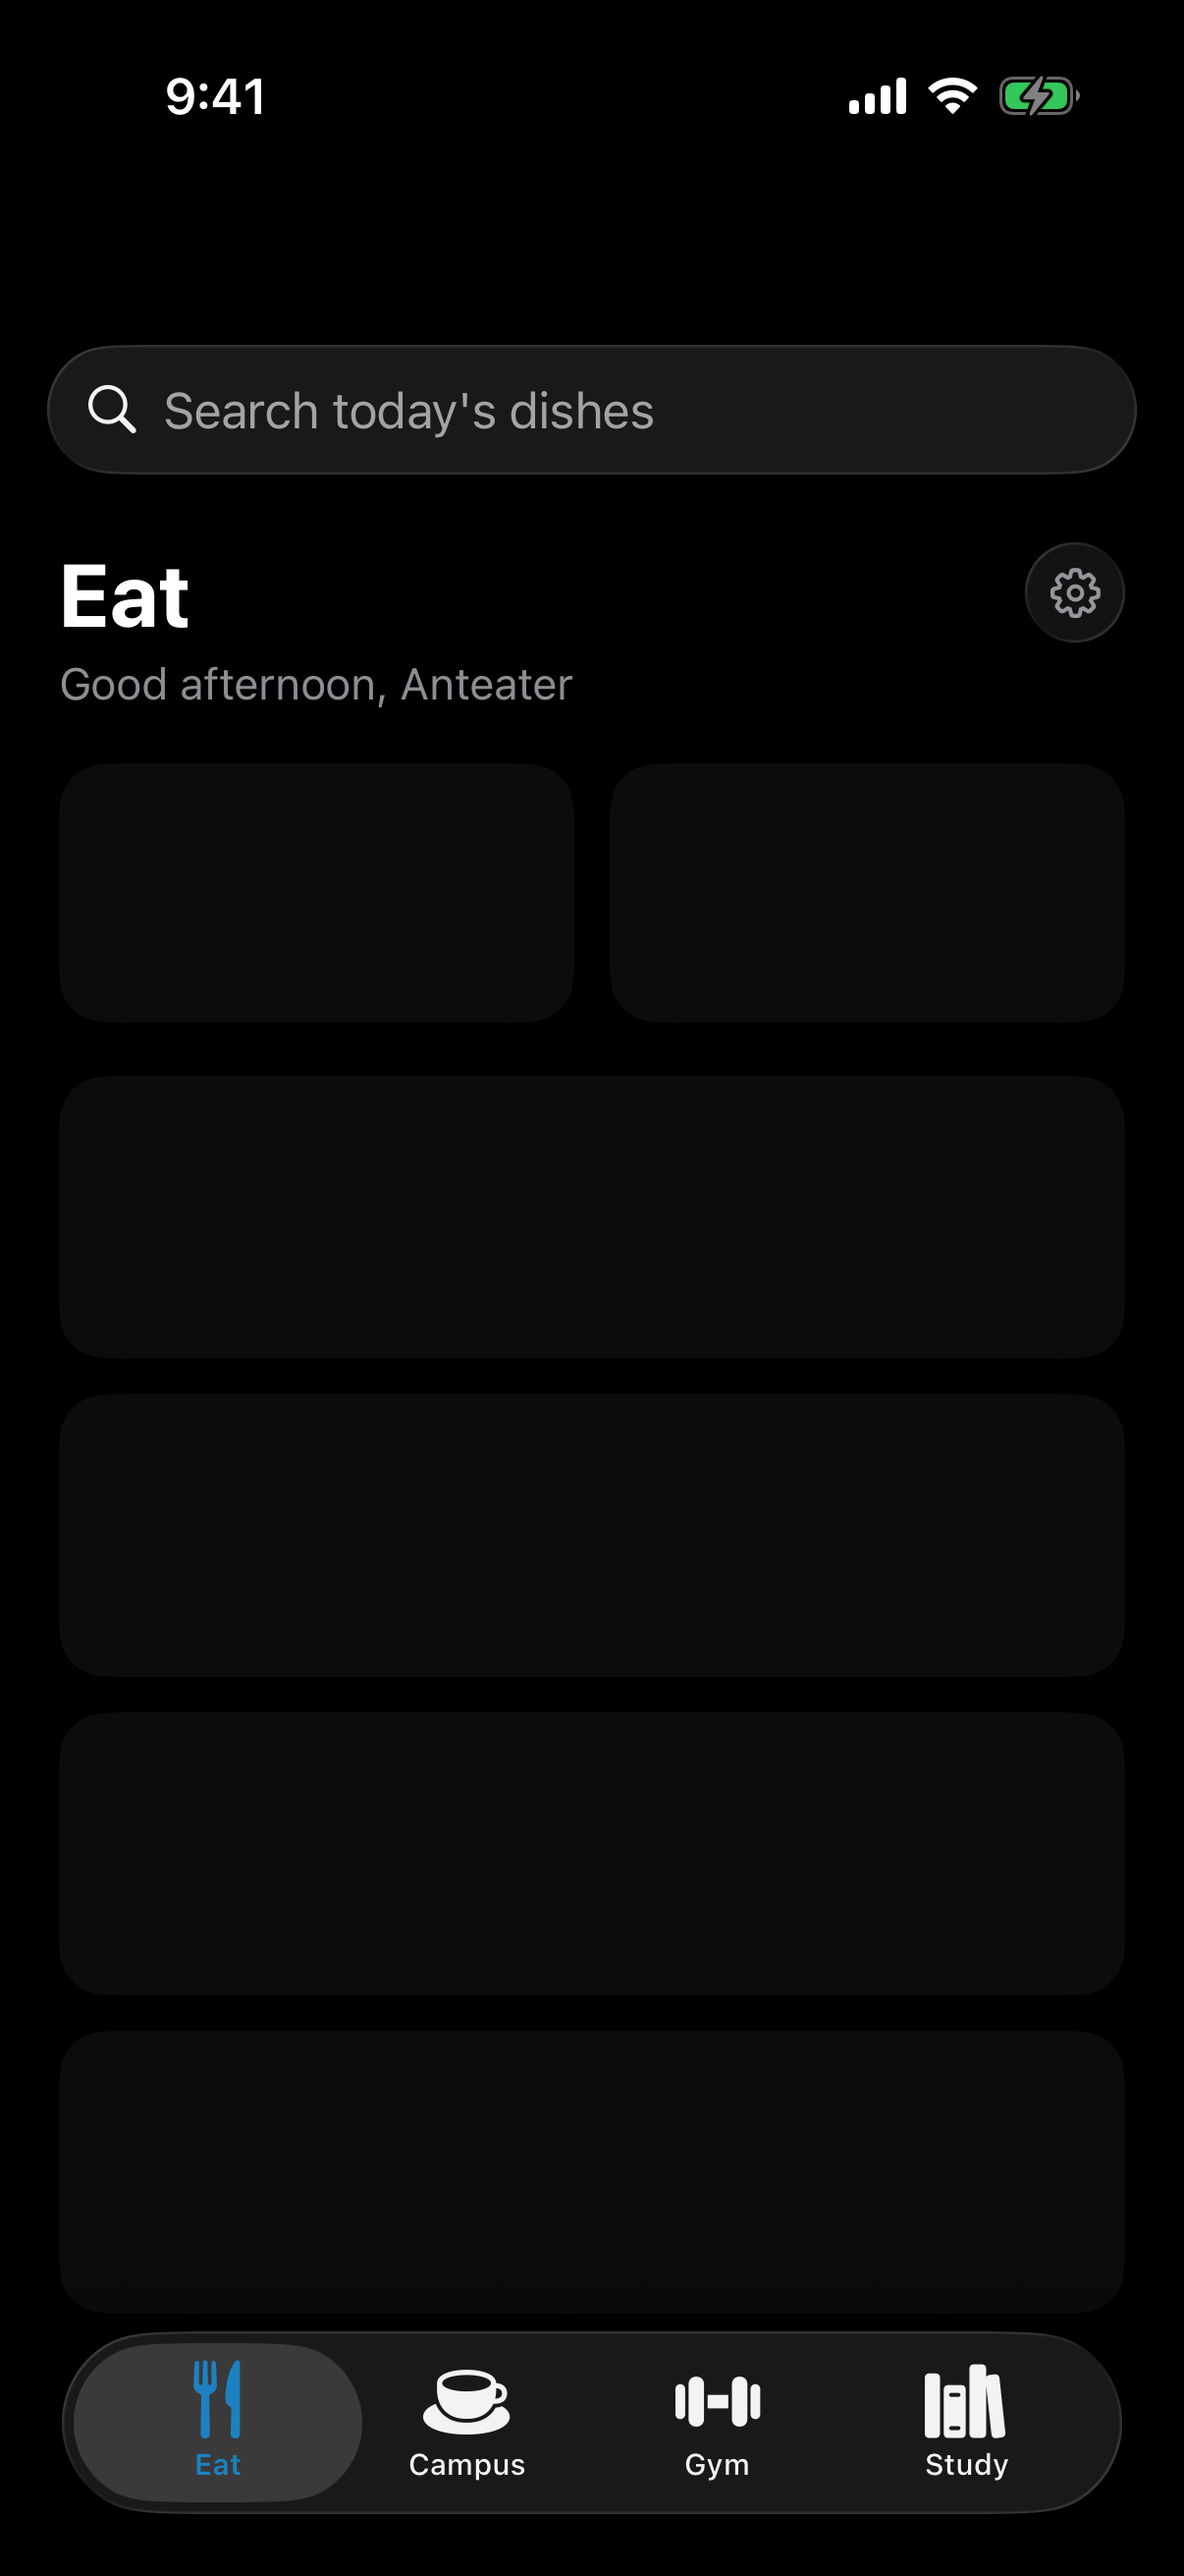
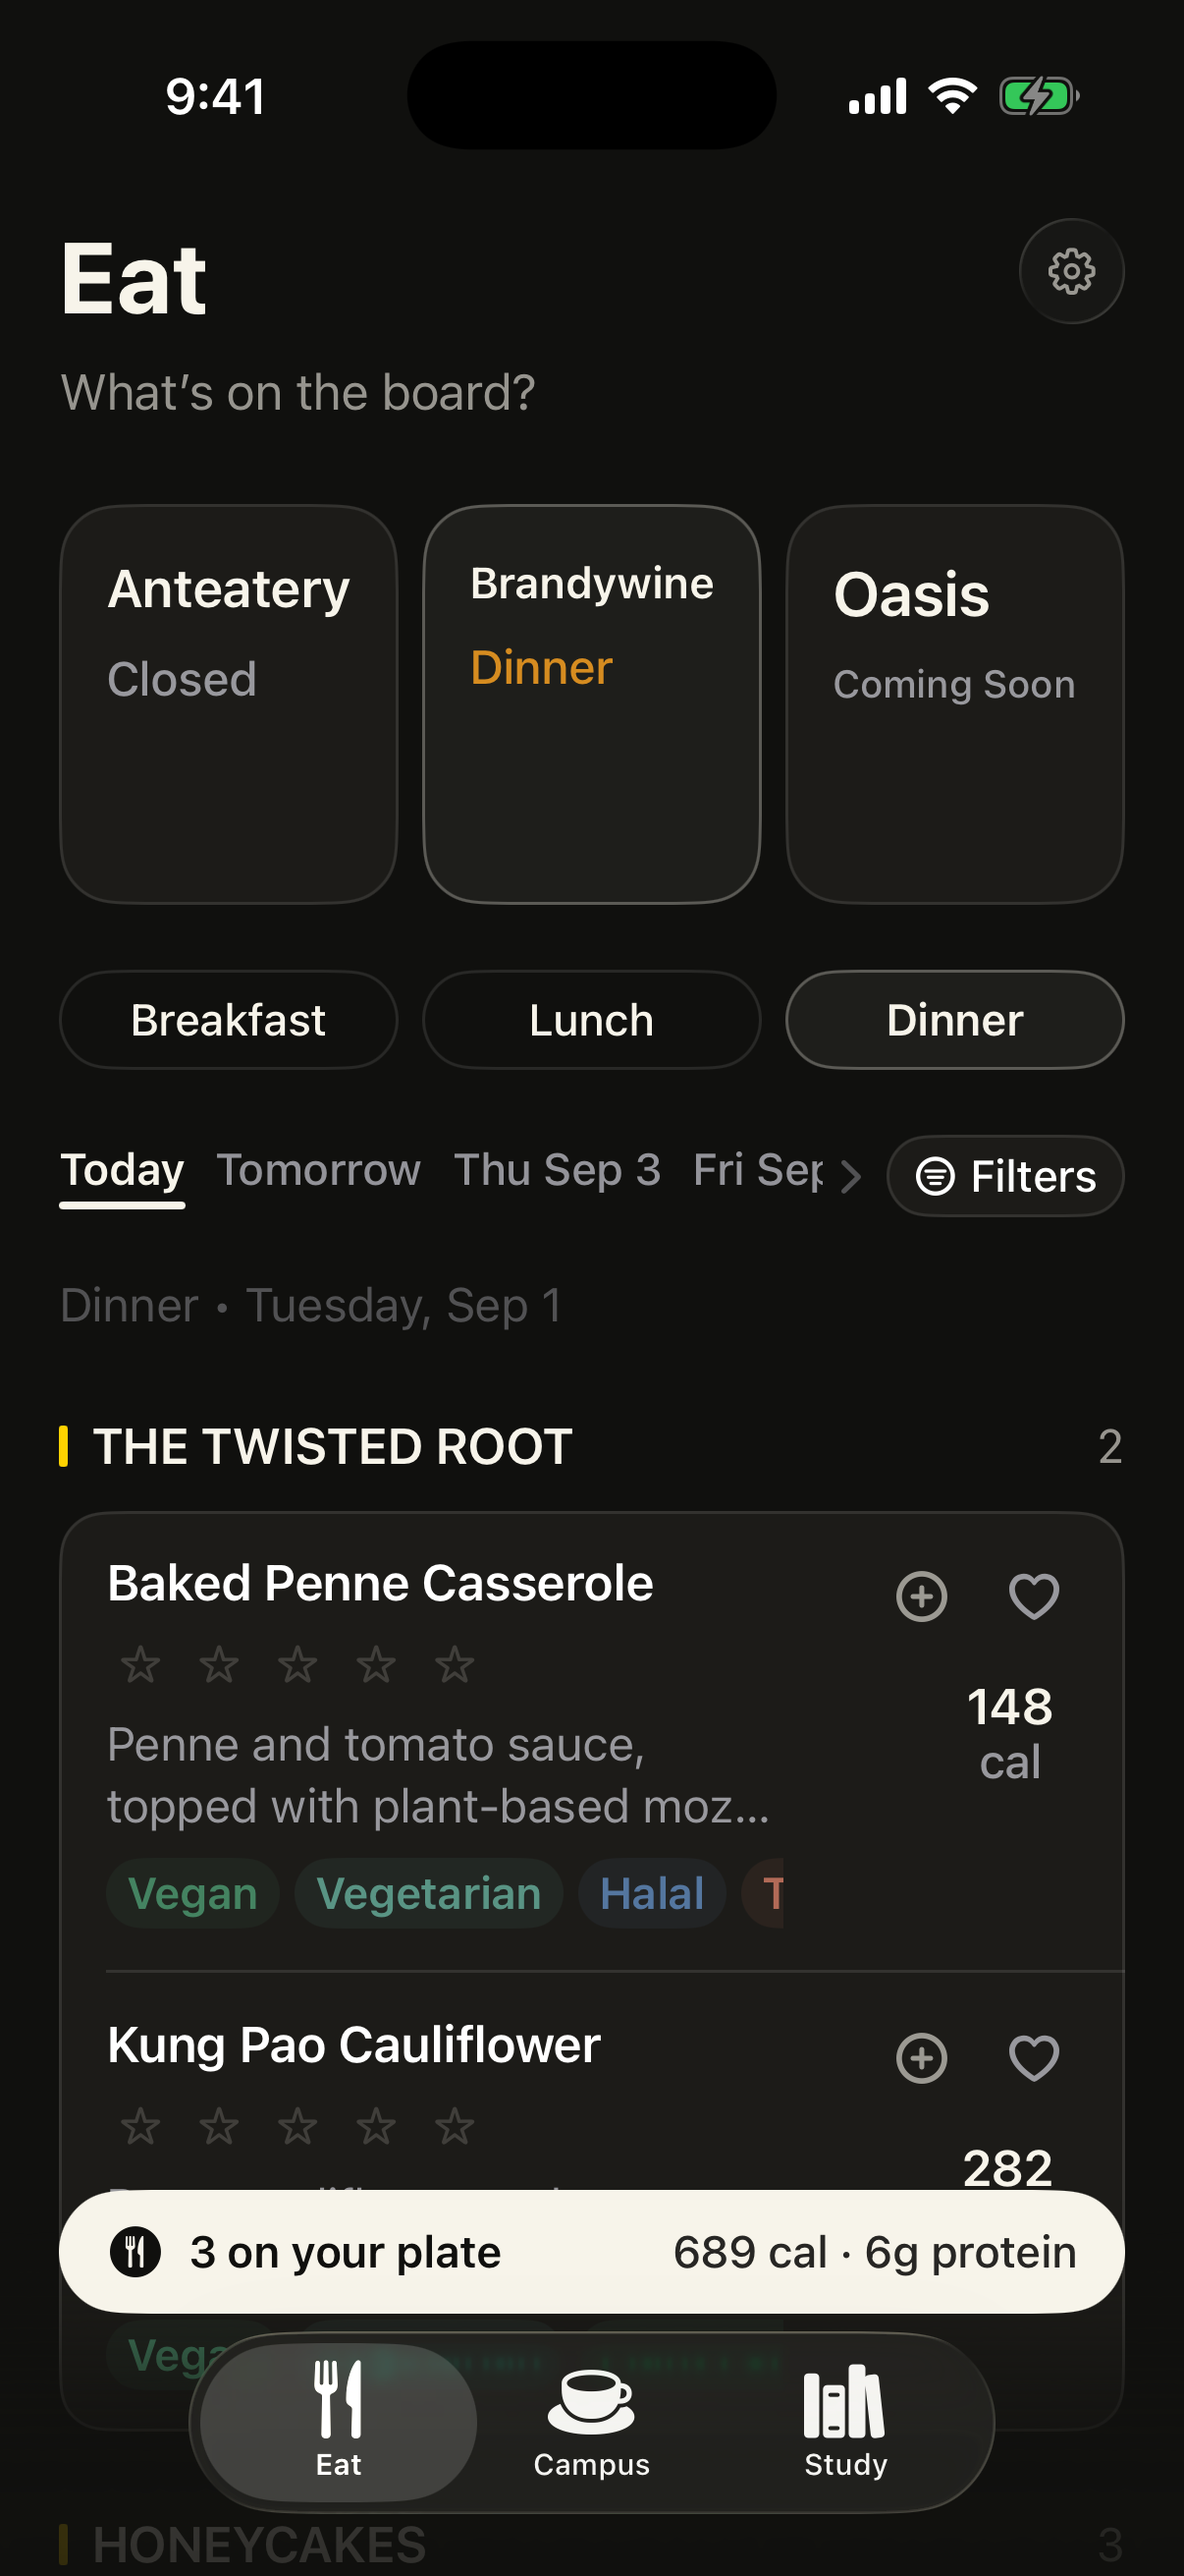
docs: refresh public README for Anteats as it ships today
Rewrite the GitHub README as a product page: Anteats (not ZotEats), Eat / Campus / Study only, current widgets and alerts, and gym-free screenshots. Drop Gym, Track Meal, beta/one-behind store language, and the stale demo gif.

diff --git a/README.md b/README.md
@@ -1,102 +1,78 @@
 <div align="center">
 
-# ZotEats 🐜
+# Anteats
 
-**UCI dining, campus food, gym, and study spots — in one native iOS app.**
+**UCI dining, campus food, and a quiet place to study — in one native iOS app.**
 
-*Menus with nutrition and dietary filters · live library busyness · rush-hour intelligence · built by an Anteater, for Anteaters.*
+On the App Store (~1.0.298). Built by [Atharv Gupta](https://github.com/atharvgups). Unofficial — not affiliated with UC Irvine.
 
 [![iOS CI](https://github.com/atharvgups/zoteats/actions/workflows/ios.yml/badge.svg)](https://github.com/atharvgups/zoteats/actions/workflows/ios.yml)
 ![Swift 6](https://img.shields.io/badge/Swift-6-F05138?logo=swift&logoColor=white)
-![iOS 17+](https://img.shields.io/badge/iOS-17%2B-000000?logo=apple&logoColor=white)
-![Status](https://img.shields.io/badge/status-beta-blue)
+![iOS 18+](https://img.shields.io/badge/iOS-18%2B-000000?logo=apple&logoColor=white)
 
-<img src="docs/screenshots/demo.gif" alt="ZotEats demo" width="300" />
+Search **Anteats** on the App Store. The GitHub repo is `zoteats`.
 
 </div>
 
----
-
-## What it does
-
 <p align="center">
-  <img src="docs/screenshots/eat_light.png" width="24%" alt="Eat tab" />
-  <img src="docs/screenshots/campus.png" width="24%" alt="Campus tab" />
-  <img src="docs/screenshots/gym.png" width="24%" alt="Gym tab" />
-  <img src="docs/screenshots/study.png" width="24%" alt="Study tab" />
-</p>
-
-- **Eat** — live menus for The Anteatery & Brandywine with calories, allergens, and Vegan / Vegetarian / Halal / Kosher / Gluten-Free filtering. Countdowns like "Dinner starts in 16m", browse tomorrow's menu, and the app opens on whichever meal is happening right now.
-- **Campus** — every campus food spot (Starbucks, Panda Express, Subway, Zot N Go, the food courts) with real hours and open/closed. Filter by category or "open now"; chains collapse into one expandable row; menus where venues publish them.
-- **Gym** — busyness-first ARC view: how packed it is now, today's rush curve, and when it's usually quietest. Hours tucked away where they belong.
-- **Study** — live library occupancy from UCI's Occuspace sensors, floor by floor, with a "quietest right now" pick.
-
-**Plus:** full dark mode (follow the system or force it), a home-screen widget, favorites that surface when your dish is being served, dish detail sheets with nutrition, and a few hidden Zots for the curious. 🐜🐜🐜
-
-<p align="center">
-  <img src="docs/screenshots/campus_menu.png" width="24%" alt="Menu sheet" />
-  <img src="docs/screenshots/eat_dark.png" width="24%" alt="Dark mode" />
+  <img src="docs/screenshots/eat_light.png" width="24%" alt="Eat" />
+  <img src="docs/screenshots/campus.png" width="24%" alt="Campus" />
+  <img src="docs/screenshots/study.png" width="24%" alt="Study" />
   <img src="docs/screenshots/settings.png" width="24%" alt="Settings" />
 </p>
 
-## Data sources
+## What it does
 
-All data is live from public, community-maintained UCI sources. No accounts, no ads, no tracking — preferences never leave your device.
+**Eat** — Anteatery, Brandywine, and Oasis (coming soon until menus go live). Three text-first hall tiles, larger Breakfast / Lunch / Dinner pills, and a subtitle that follows the meal you picked — on-device Apple Intelligence when the phone can do it, a static line when it can’t. My Plate, dietary filters, a card per station, favorites. Twisted Root sits first when you want the vegan option.
 
-| What | Source |
-|---|---|
-| Dining hall menus, hours, nutrition | [Anteater API](https://anteaterapi.com) (`/v2/rest/dining`) — the maintained UCI data API |
-| Campus restaurant hours & menus | UCI Dining hub (`uci.mydininghub.com`) public backend |
-| Library busyness | UCI's [Occuspace pilot](https://www.lib.uci.edu/library-space-usage-pilot) via the public Waitz feed |
-| ARC hours | Maintained schedule, verified against [campusrec.uci.edu](https://www.campusrec.uci.edu/arc/hours.html) |
+**Study** — Langson and Gateway, with today’s hours. Libraries start collapsed; open a card to see floor-level busyness. Chevrons point right when a section is closed and down when it’s open.
 
-Where no sensors exist (dining halls, the ARC), busyness shows **typical patterns** — clearly tagged `TYPICAL` — derived from real meal windows and known rush patterns. Live sensor data automatically takes over anywhere coverage appears.
+**Campus** — On-campus places as their own cards. Starbucks, Panda, Subway, and similar spots show a standard menu when we have one; everyone else links to the official online menu when a live scrape isn’t reliable.
 
-## Architecture
+**Widgets** — A handful of WidgetKit glances (about five or six): dining halls, today’s menu, favorites on the board, campus open now, quietest library. Enough to check without opening the app — not a gallery.
 
-```
-apple/
-├── ZotEatsKit/     Swift package: models, API services, caching,
-│                   typical-busyness engine — 46 tests, runs on Linux + macOS
-├── App/            SwiftUI app (iOS 17+): Eat / Campus / Gym / Study
-│                   + a Notion-inspired design system
-├── UITests/        Scripted demo tour, recorded on video by CI
-└── project.yml     XcodeGen spec (the Xcode project is generated, not committed)
-```
+**Notifications** — Dining and campus alerts that stay useful: a favorite on today’s board, a hall about to open or close, a library getting busy. No spam.
 
-- **Swift 6** with strict concurrency, `@Observable` stores, no external dependencies.
-- **CI** builds the app on macOS runners, captures light + dark screenshots of every screen, and records a full demo video on `[demo]` commits. Package tests run on every push.
-- **TestFlight** releases ship by pushing a `testflight-x.y.z` tag.
-- The repo root also contains the original [Glaze](https://glazeapp.com) desktop prototype this project grew out of.
+**Settings** — Standard iOS switches. System type (SF Pro). Light is plain white; dark is plain black.
 
-## Development
+<p align="center">
+  <img src="docs/screenshots/eat_dark.png" width="24%" alt="Eat in dark mode" />
+  <img src="docs/screenshots/plate_light.png" width="24%" alt="My Plate" />
+  <img src="docs/screenshots/campus_menu.png" width="24%" alt="Campus menu" />
+  <img src="docs/screenshots/dish_nutrition_light.png" width="24%" alt="Dish nutrition" />
+</p>
+
+No accounts. No ads. No tracking. Preferences and My Plate stay on this iPhone.
+
+## Stack
+
+- **SwiftUI** app (iOS 18+), display name Anteats, bundle id `com.atharvgupta.zoteats`
+- **Swift 6**, WidgetKit, App Groups so the app and widgets share an on-device cache
+- **`ZotEatsKit`** — shared Swift package for models, dining / campus / library services, and tests
+- **XcodeGen** — the Xcode project is generated, not committed
+- **TestFlight** for internal dogfood (ahead of the store, ~1.0.308)
+
+Live data comes from public campus feeds: [Anteater API](https://anteaterapi.com) for dining-hall menus, UCI Dining Hub for campus retail, [Waitz](https://waitz.io/irvine) for library busyness, and UCI LibCal for library hours.
+
+## Build & run
+
+**Requirements:** macOS, Xcode (iOS 18 SDK), [XcodeGen](https://github.com/yonaskolb/XcodeGen).
 
 ```bash
-# Data layer tests (works on Linux and macOS)
+# Data-layer tests (Linux or macOS)
 swift test --package-path apple/ZotEatsKit
 
-# Include live-API smoke tests
+# Optional live-API smoke tests
 ZOTEATS_LIVE_TESTS=1 swift test --package-path apple/ZotEatsKit
 
-# Generate the Xcode project (macOS)
+# Generate the project and open it
 brew install xcodegen
 xcodegen generate --spec apple/project.yml --project apple/
 open apple/ZotEats.xcodeproj
 ```
 
-## Status
+Run the **ZotEats** scheme on a simulator or device. The home screen says Anteats. Set your Apple Development Team in `apple/project.yml` if you need device signing.
 
-**Beta** — build from source (commands above) or watch for TestFlight tags (`testflight-x.y.z`). Unofficial student project; not affiliated with UC Irvine.
+## Author
 
-### Shipped
-
-Home-screen widget · favorites when your dish is served · browse tomorrow's menus · dark mode · dietary filters
-
-### Next
-
-- Favorite-dish notifications ("chicken tikka is at Brandywine today")
-- Real dining-hall and ARC busyness the moment campus sensors exist
-
-## Disclaimer
-
-Data comes from public endpoints that may change without notice. Zot responsibly.
+Anteats is an unofficial student project by [Atharv Gupta](https://github.com/atharvgups). It is not affiliated with, endorsed by, or sponsored by UC Irvine. Public endpoints can change — check official UCI channels when hours or menus matter.
